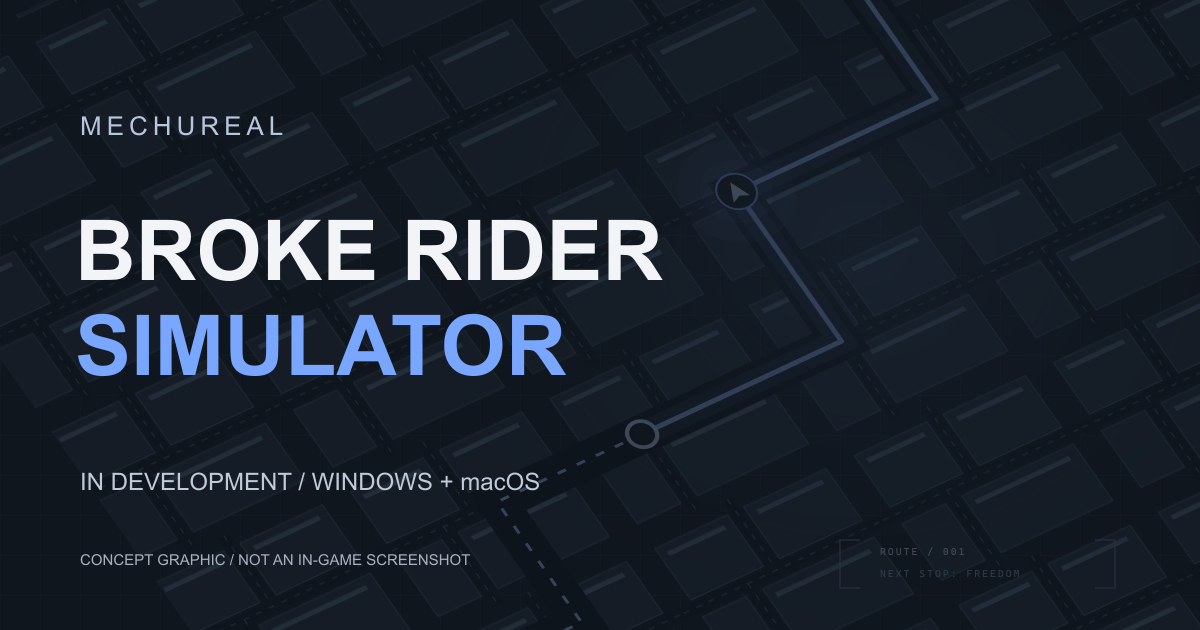
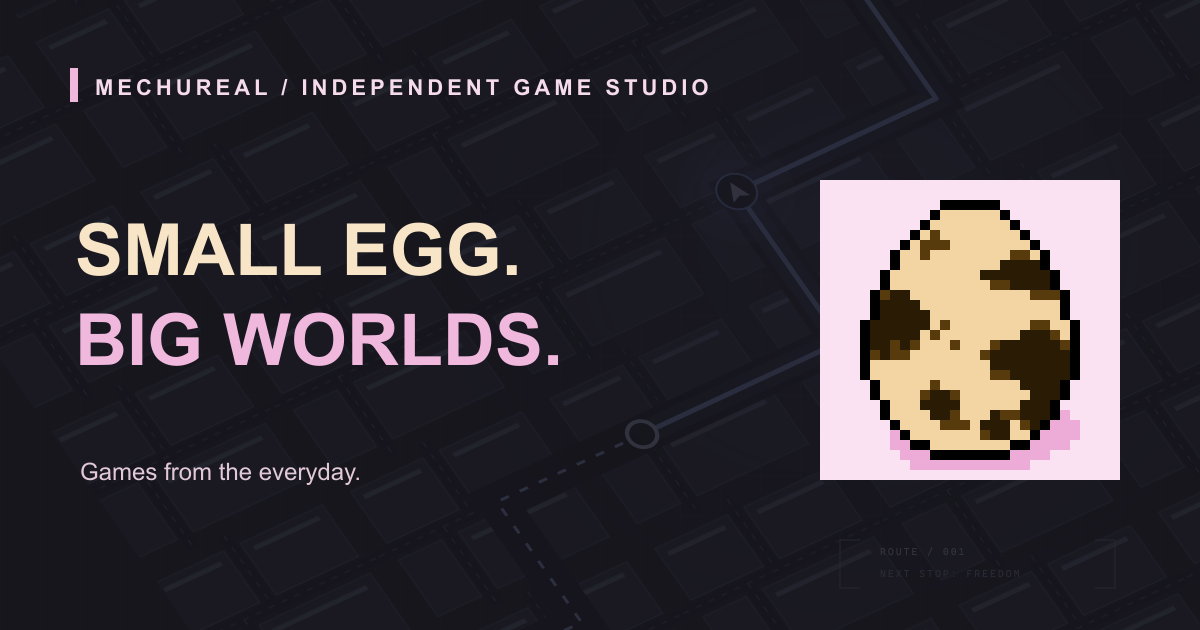
Apply pixel egg brand identity

diff --git a/src/styles/global.css b/src/styles/global.css
@@ -4,3 +4,9 @@
 @media(max-width:1000px){.nav-wrap{padding:0 28px;gap:20px}.desktop-nav{gap:18px}main{padding:0 28px}.site-footer{margin:20px 28px 0}.studio-intro{display:block}.studio-intro>p{max-width:550px;margin-top:20px}.hero-content{padding:40px}.post-grid{gap:20px}.footer-links{gap:15px}.copyright{display:none}.hero-shade{background:linear-gradient(90deg,#111720f5,#1117208c)}.gameplay-steps{gap:25px}}
 @media(max-width:700px){.nav-wrap{height:72px;padding:0 20px;gap:18px}.brand{font-size:16px;gap:7px}.brand svg{width:24px}.brand-dot{display:none}.desktop-nav{display:none}.language{margin-left:auto;border:0;padding:0}.mobile-menu{display:block}.mobile-menu summary{list-style:none;cursor:pointer;font-size:22px}.mobile-menu summary::-webkit-details-marker{display:none}.mobile-menu nav{position:absolute;top:71px;left:0;right:0;background:var(--surface);padding:15px 20px;box-shadow:0 15px 20px #0005;display:grid;gap:0;border-bottom:1px solid var(--line)}.mobile-menu nav a{padding:12px 0}main{padding:0 20px}.studio-intro{padding:42px 0 30px}.studio-intro h1{font-size:28px}.eyebrow{font-size:10px}.game-hero{min-height:640px}.hero-content{padding:32px 24px 80px}.hero-content h1,.hero-content h2{font-size:clamp(39px,9vw,60px)}.hero-shade{background:linear-gradient(90deg,#111720f0,#1117208c),linear-gradient(0deg,#11172000,#11172077)}.hero-art{object-position:65%}.hero-description{font-size:13px}.hero-tagline{font-size:19px}.hero-index{display:none}.art-label{left:14px;right:auto;bottom:13px;font-size:8px;max-width:90%}.project-strip{font-size:8px;gap:15px}.project-strip>span:last-child{display:none}.section{padding:55px 0}.section-head{align-items:start}.section-head h2{font-size:26px}.section-head>.text-link{font-size:11px;white-space:nowrap;margin-top:7px}.post-grid{grid-template-columns:1fr;gap:38px}.post-image{aspect-ratio:1.9}.post-card h3{font-size:21px}.post-card p{font-size:14px}.post-meta{margin-top:18px}.studio-note{grid-template-columns:1fr;gap:20px;padding:40px 0}.studio-note>.eyebrow{margin-bottom:0}.site-footer{margin:20px 20px 0;display:block;padding:28px 0}.footer-links{margin-top:25px;gap:25px}.page-heading{padding:48px 0 30px}.game-facts{grid-template-columns:1fr 1fr;gap:25px}.gameplay-steps,.modes{grid-template-columns:1fr;gap:28px}.gameplay-steps li{border-bottom:1px solid var(--line);padding-bottom:16px}.step-number{margin-bottom:12px}.modes h2{font-size:26px}.development-status{grid-template-columns:1fr;padding:25px;gap:25px}.steam-placeholder{border-left:0;border-top:1px solid var(--line);padding:25px 0 0}.about-manifesto{grid-template-columns:1fr;gap:35px;padding-bottom:40px}.giant-mark{aspect-ratio:1.6;font-size:150px}.contact-list>div{grid-template-columns:1fr auto;gap:10px}.contact-list .eyebrow{grid-column:1/-1}.contact-list h2{font-size:19px}.article-header{padding-top:35px}.article-lede{font-size:16px}.prose{font-size:16px}.article-navigation strong{font-size:13px}.article figure{margin-bottom:25px}}
 @media(prefers-reduced-motion:reduce){*,*::before,*::after{animation:none!important;transition:none!important;scroll-behavior:auto!important}}
+
+/* Mechureal: quail egg cream, toasted brown and pixel-pink accents. */
+:root{--bg:#171519;--surface:#272026;--text:#f8eddf;--muted:#c5b7bd;--accent:#f1badd;--line:#51404b;--egg-cream:#f5d8a1;--egg-brown:#48300e;--egg-pink:#f1badd}
+.site-header{background:#171519f5}.brand-egg{object-fit:contain;image-rendering:pixelated;border-radius:3px;flex:none}.brand{letter-spacing:.06em}.brand:hover{color:var(--egg-pink)}.brand-edition{color:#c08aab}.tiny-cross{color:var(--egg-pink)}.button{color:#291c24;background:var(--egg-pink)}.button:hover{color:#291c24;background:#f8d3e9}.status{background:#f1badd19;border-color:#f1badd66;color:#f6d4e9}.game-hero{border-color:#604955}.hero-content h1 span,.hero-content h2 span{color:var(--egg-pink)}.giant-mark{background:#f7e1ef;display:flex;flex-direction:column;justify-content:center;gap:18px;padding:35px;color:#48300e;letter-spacing:0}.giant-mark img{width:min(70%,300px);height:auto;image-rendering:pixelated}.giant-mark span{font:700 10px Arial,sans-serif;letter-spacing:.18em;text-align:center}.site-footer{width:calc(100% - 96px)}
+@media(max-width:1000px){.site-footer{width:auto}}
+@media(max-width:700px){.brand-egg{width:34px;height:34px}.brand-edition{display:none}.giant-mark img{width:145px}.giant-mark{gap:4px}}

diff --git a/README.md b/README.md
@@ -69,7 +69,7 @@ PR/기능 브랜치에서는 배포 job이 실행되지 않습니다. 따라서 
 
 ## 브랜드와 개인정보
 
-공식 작성자는 Mechureal입니다. 개인 프로필, 개인 이메일, 개인 소셜 링크 및 외부 분석 도구를 넣지 않습니다. 미확정 이메일·YouTube·SNS·Steam은 준비 중으로만 표시합니다. 정식 로고 및 실제 게임 화면이 제공되기 전까지 현재 워드마크와 그래픽은 교체 가능한 임시 브랜드 자산입니다.
+공식 작성자는 Mechureal입니다. 개인 프로필, 개인 이메일, 개인 소셜 링크 및 외부 분석 도구를 넣지 않습니다. 미확정 이메일·YouTube·SNS·Steam은 준비 중으로만 표시합니다. 제공된 픽셀 메추리알 로고와 이를 바탕으로 한 색상을 사용합니다. 게임 화면 대신 사용하는 도시 그래픽은 교체 가능한 콘셉트 이미지입니다.
 
 새 이미지·영상은 픽셀 내용, EXIF/XMP, 파일명, 자막을 검토합니다. Git 커밋 작성자와 조직 구성원 정보는 웹사이트와 별개이므로 공개 전 별도 점검합니다. 기존 커밋 기록은 수정하지 않습니다. 게임 프로젝트는 이 저장소의 작업 범위에 포함되지 않습니다.
 
